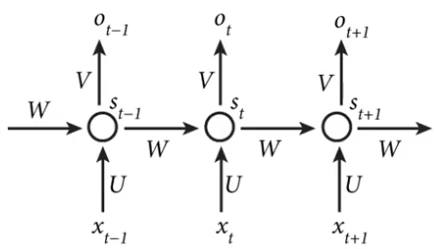
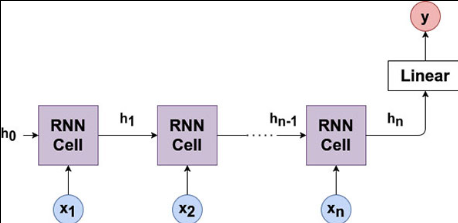
update rnn docs

diff --git a/docs/RNN.md b/docs/RNN.md
@@ -7,21 +7,31 @@
   <figcaption>Diagram of a RNN</figcaption>
 </figure>
 
-- Input: $\textbf{x} \in \texttt{R}^{d}$  (i.e. word of a sentence)
-- Hidden state: $\textbf{s} \in \texttt{R}^{m}$, where $m$ is the number of hidden units
-- Output: $\textbf{o} \in \texttt{R}^{n}$ (i.e. next word of the sentence)
-- Parameters: $\textbf{U} \in \texttt{R}^{m \times d}$, $\textbf{V} \in \texttt{R}^{n \times m}$, $\textbf{W} \in \texttt{R}^{m \times m}$ (they are the same for each time step $t$)
+- Input: $\textbf{x}_{t} \in \texttt{R}^{d}$  (channels of a sample, i.e. word of a sentence)
+- Hidden state: $\textbf{h}_{t} \in \texttt{R}^{m}$, where $m$ is the number of hidden units
+- Output: $\textbf{o} \in \texttt{R}^{q}$ (i.e. next word of the sentence)
 
+where $t = 1, 2, ..., n$
 
 ## Cell definition
 
+<figure markdown="span">
+  ![Image title](assets/rnn_cell.png){ width="400" }
+  <figcaption>Diagram of RNN cell</figcaption>
+</figure>
+
+
 $$
-\textbf{s}_{t} = \sigma (\textbf{W}\textbf{s}_{t-1} + \textbf{U}\textbf{x}_{t} + \textbf{b})
+\textbf{h}_{t} = \sigma (\textbf{W}\textbf{h}_{t-1} + \textbf{U}\textbf{x}_{t} + \textbf{b})
 $$
 
 $$
-\textbf{o}_{t} = \sigma (\textbf{V}\textbf{s}_{t} + \textbf{c})
+\textbf{o}_{t} = \sigma (\textbf{V}\textbf{h}_{t} + \textbf{c})
 $$
 
-## Training
+where, the trainable parameters are (the same for each time step $t$):
+
+- $\textbf{U} \in \texttt{R}^{m \times d}$
+- $\textbf{V} \in \texttt{R}^{q \times m}$
+- $\textbf{W} \in \texttt{R}^{m \times m}$ 
 
